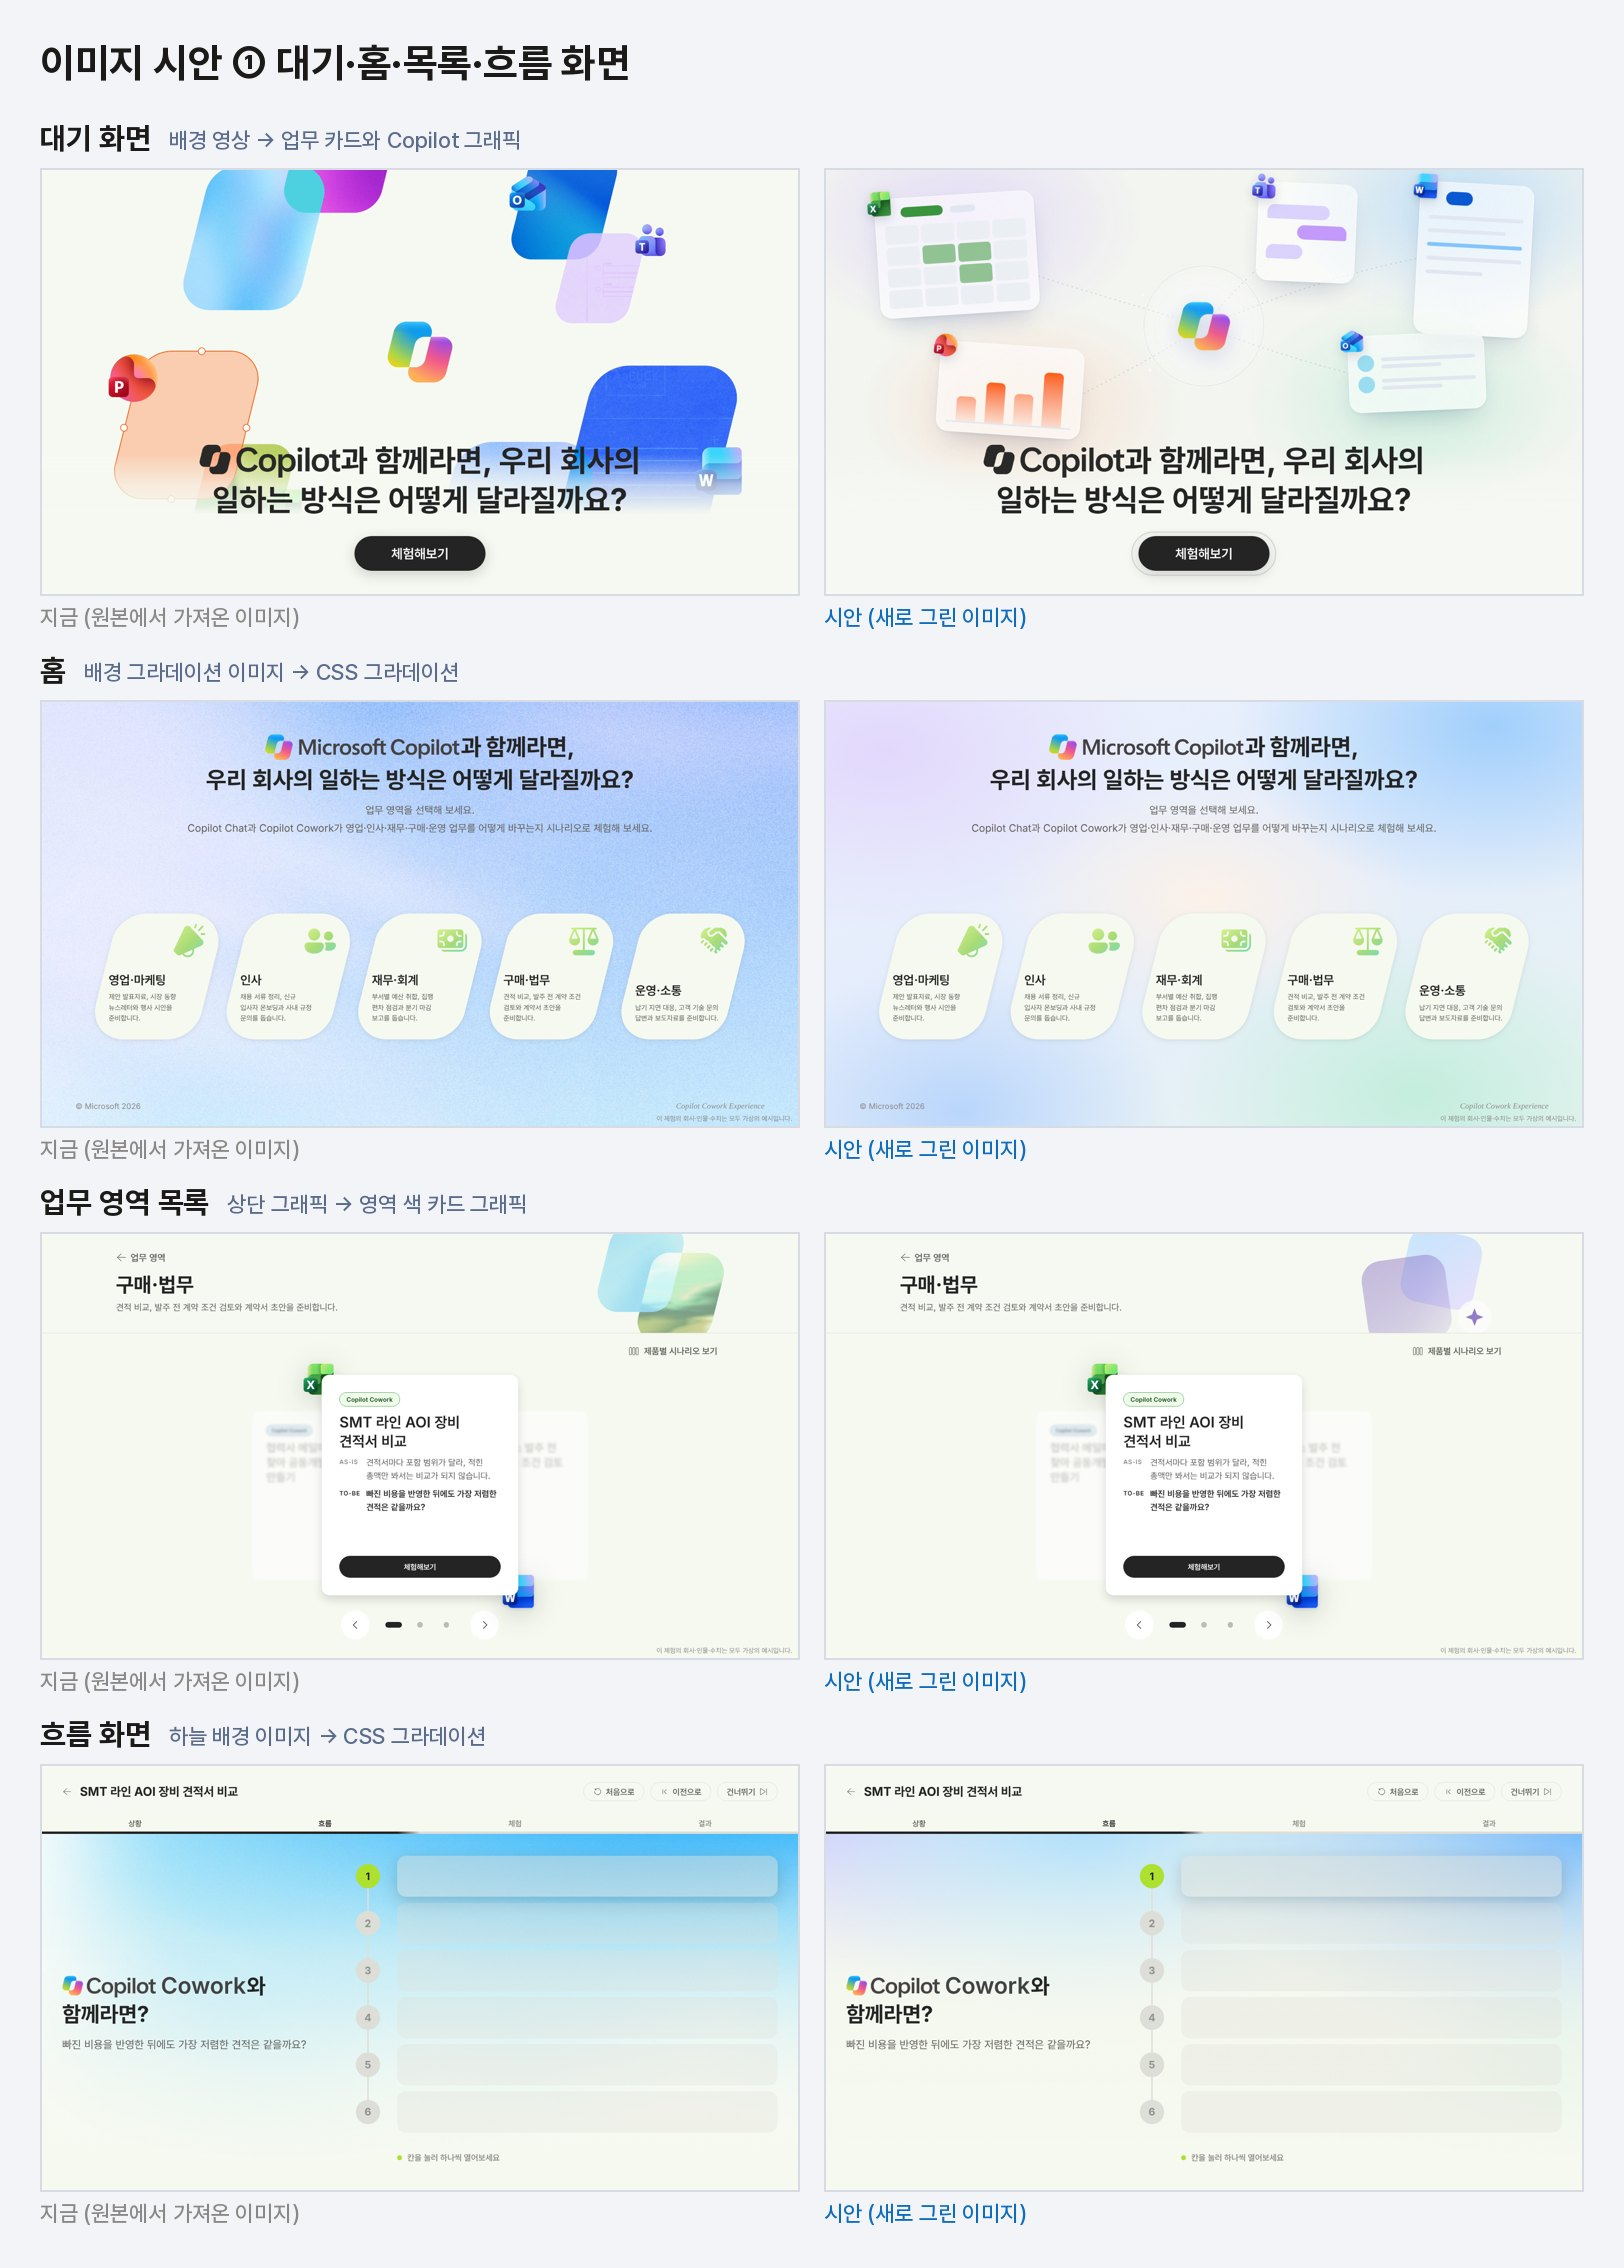
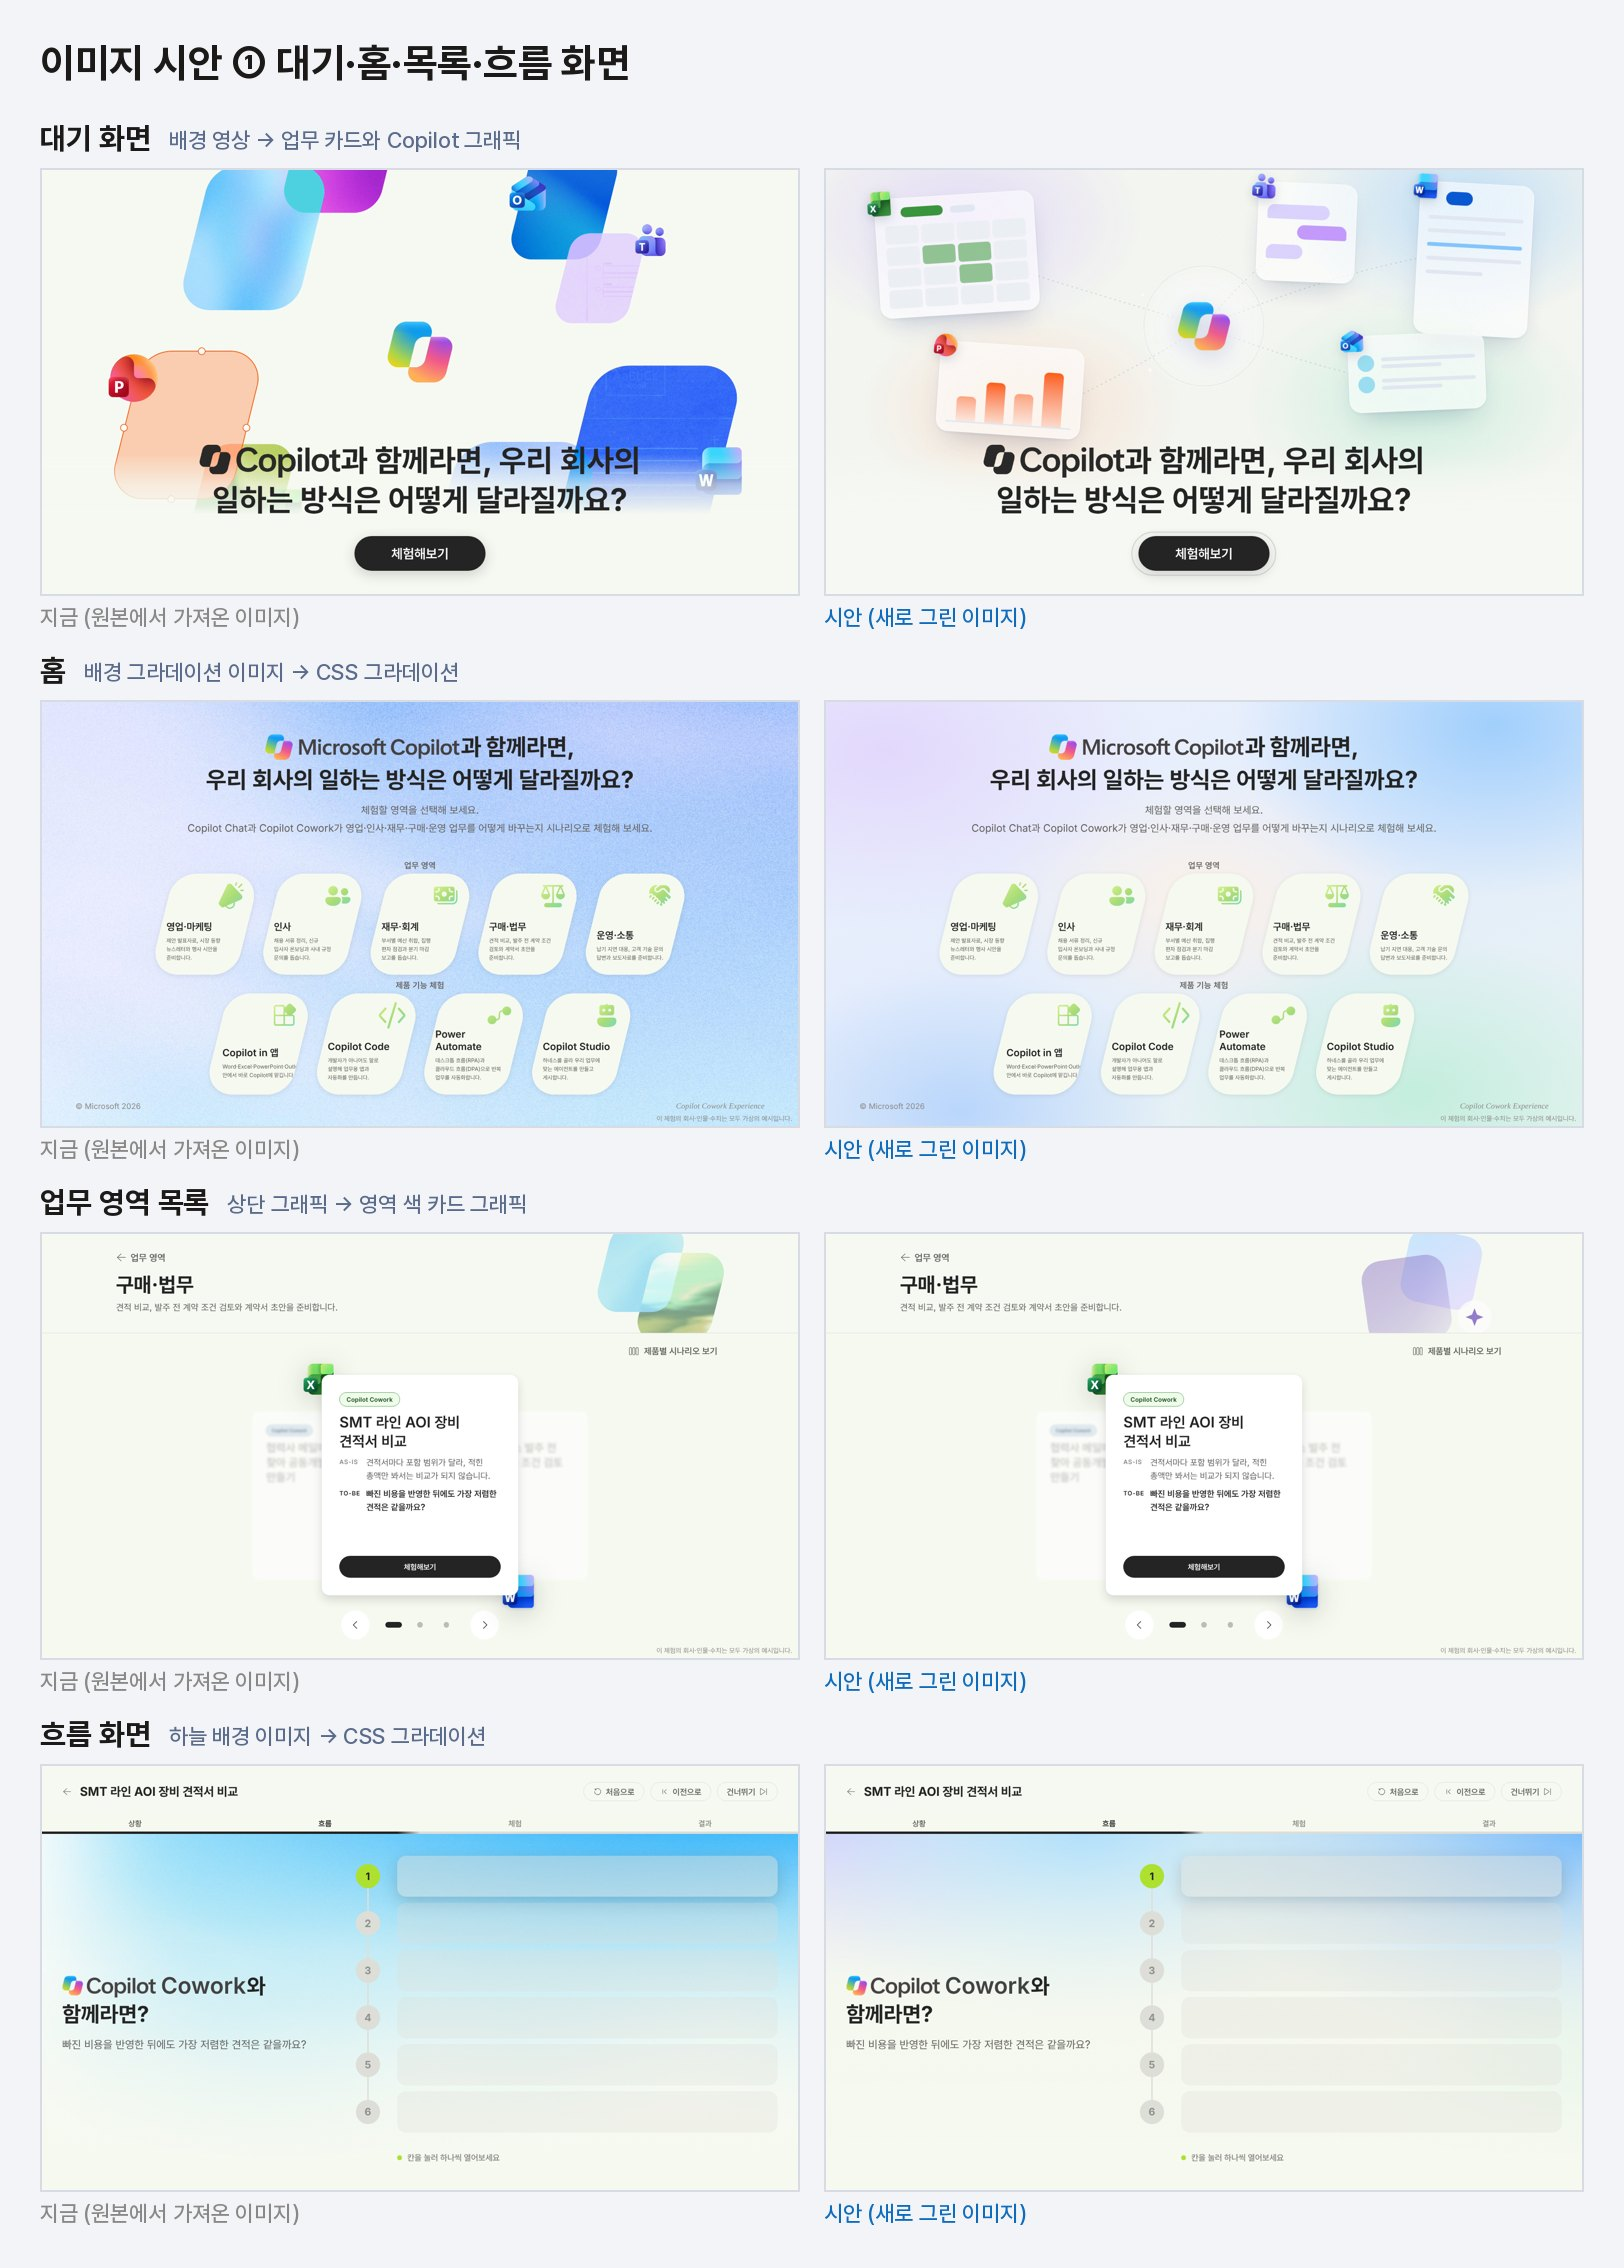
Apply image draft colors to the new product tracks
Claude-Session: https://claude.ai/code/session_01XtGTNXmKZqAqLMj856j3i2

diff --git a/src/styles/draft.css b/src/styles/draft.css
@@ -20,6 +20,10 @@
 
 [data-look="draft"] [data-track=procurement] { --track: var(--track-procurement); --track-ink: var(--track-procurement-ink); }
 [data-look="draft"] [data-track=ops] { --track: var(--track-ops); --track-ink: var(--track-ops-ink); }
+[data-look="draft"] [data-track=m365-apps] { --track: var(--track-m365-apps); --track-ink: var(--track-m365-apps-ink); }
+[data-look="draft"] [data-track=copilot-code] { --track: var(--track-copilot-code); --track-ink: var(--track-copilot-code-ink); }
+[data-look="draft"] [data-track=power-automate] { --track: var(--track-power-automate); --track-ink: var(--track-power-automate-ink); }
+[data-look="draft"] [data-track=copilot-studio] { --track: var(--track-copilot-studio); --track-ink: var(--track-copilot-studio-ink); }
 
 /* 배경: 홈 · 흐름/결과 화면 */
 [data-look="draft"] .booth-home:before {

diff --git a/docs/design-draft/README.md b/docs/design-draft/README.md
@@ -17,7 +17,7 @@
 | 흐름·결과 화면 배경 | `src/assets/gradient/sky-02.jpg` | CSS 그라데이션 + SVG 노이즈 | 같음 |
 | 업무 영역 목록 상단 그래픽 | `public/brand/signiture/copilot-signature.png` | 영역 색으로 칠한 둥근 카드 그래픽 | 같음 |
 | 의미 아이콘 30종(상황·흐름·요약) | `src/components/semanticIcons.ts` | Fluent UI System Icons(MIT 라이선스, 이미 쓰는 패키지)로 전부 교체 | 원본 아이콘 파일 삭제 |
-| 상황 화면 그림 | `src/play/sceneArt.ts` (24종 중 15종 사용) | **3종** 새로 그림: 견적 비교, 지원서 정리, 납기 지연 (`src/play/sceneArtDraft.ts`) | 나머지 12종 새로 그리기. 안 쓰는 9종은 확장 작업 때 필요한 것만 새로 그리기 |
+| 상황 화면 그림 | `src/play/sceneArt.ts` (24종, 확장 영역까지 모두 사용 중) | **3종** 새로 그림: 견적 비교, 지원서 정리, 납기 지연 (`src/play/sceneArtDraft.ts`) | 나머지 21종 새로 그리기 |
 | 포스터 시나리오 이미지 6장 | `public/graphic/event-poster/*` | 6장 모두 새로 그림 (`public/draft/poster/`, 원본 SVG는 `poster-src/`) | 시나리오 경로를 새 파일로 바꾸고 원본 삭제 |
 
 시안 이미지는 모두 이 저장소에서 코드(SVG·CSS)로 새로 만든 것이라, 외부 이미지나 생성형 이미지 저작권 문제가 없습니다. 포스터는 시나리오 문구(1번 손이 모이는 구도와 연한 주황 #FAD4AC, 2번 밤하늘 전구 #171A5D, 브랜드 적용본은 앰버·네이비, 티셔츠는 3색)에 맞춰 그렸습니다.
